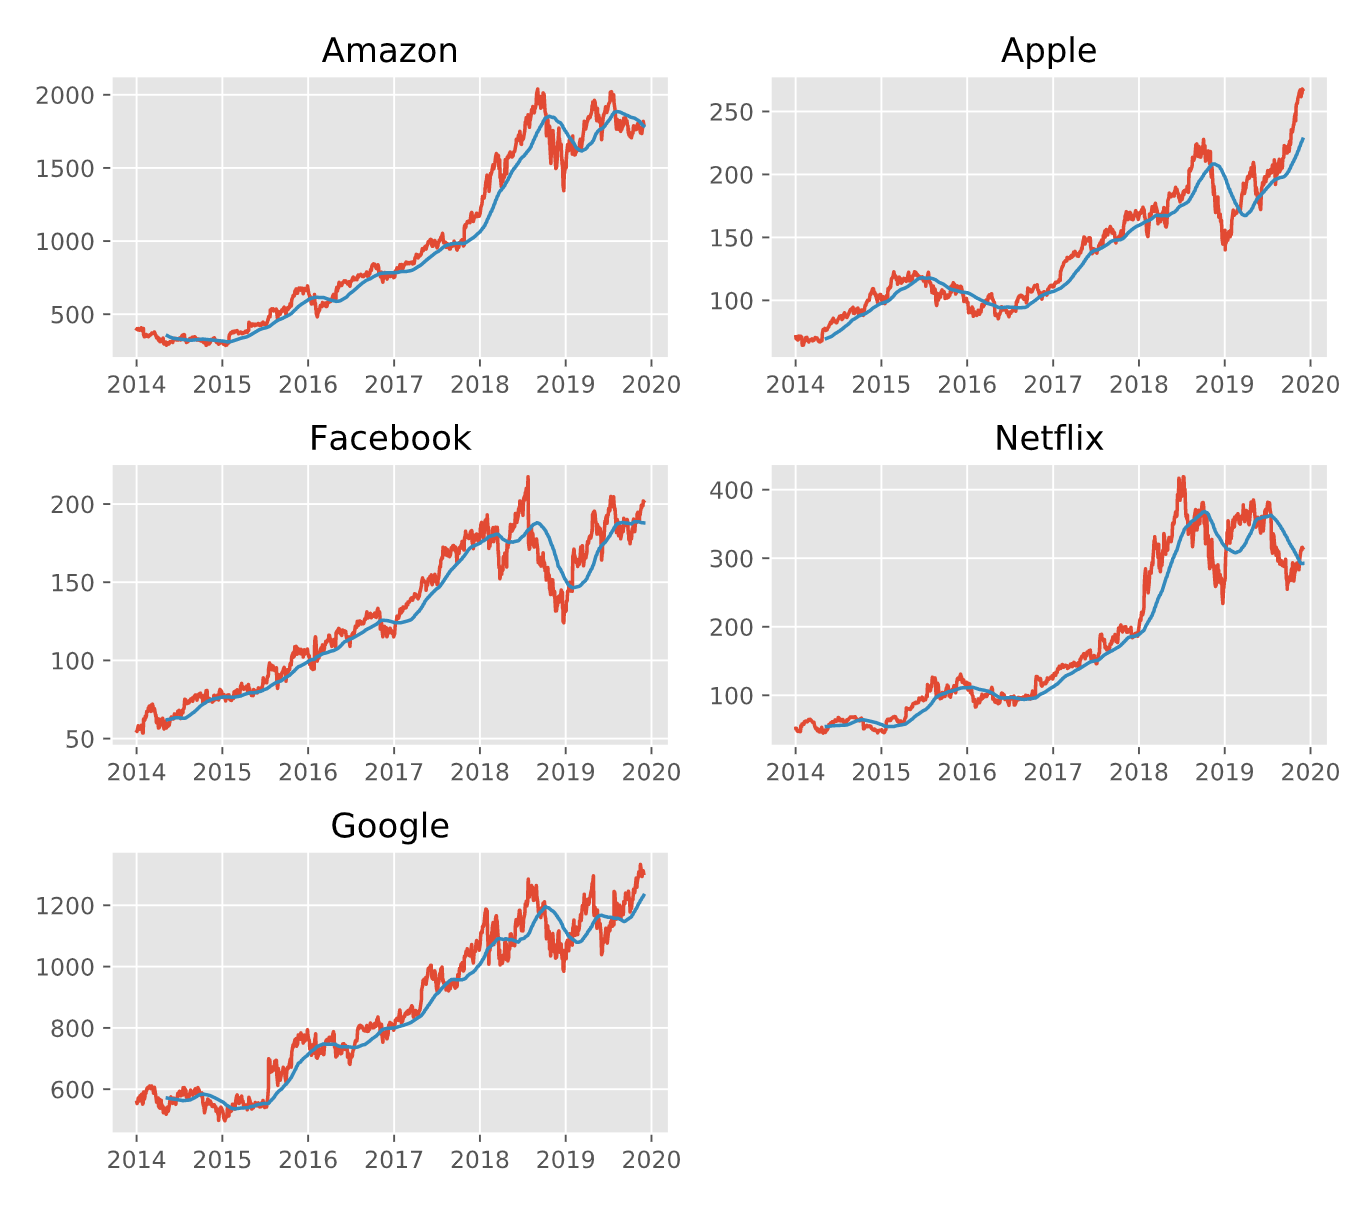
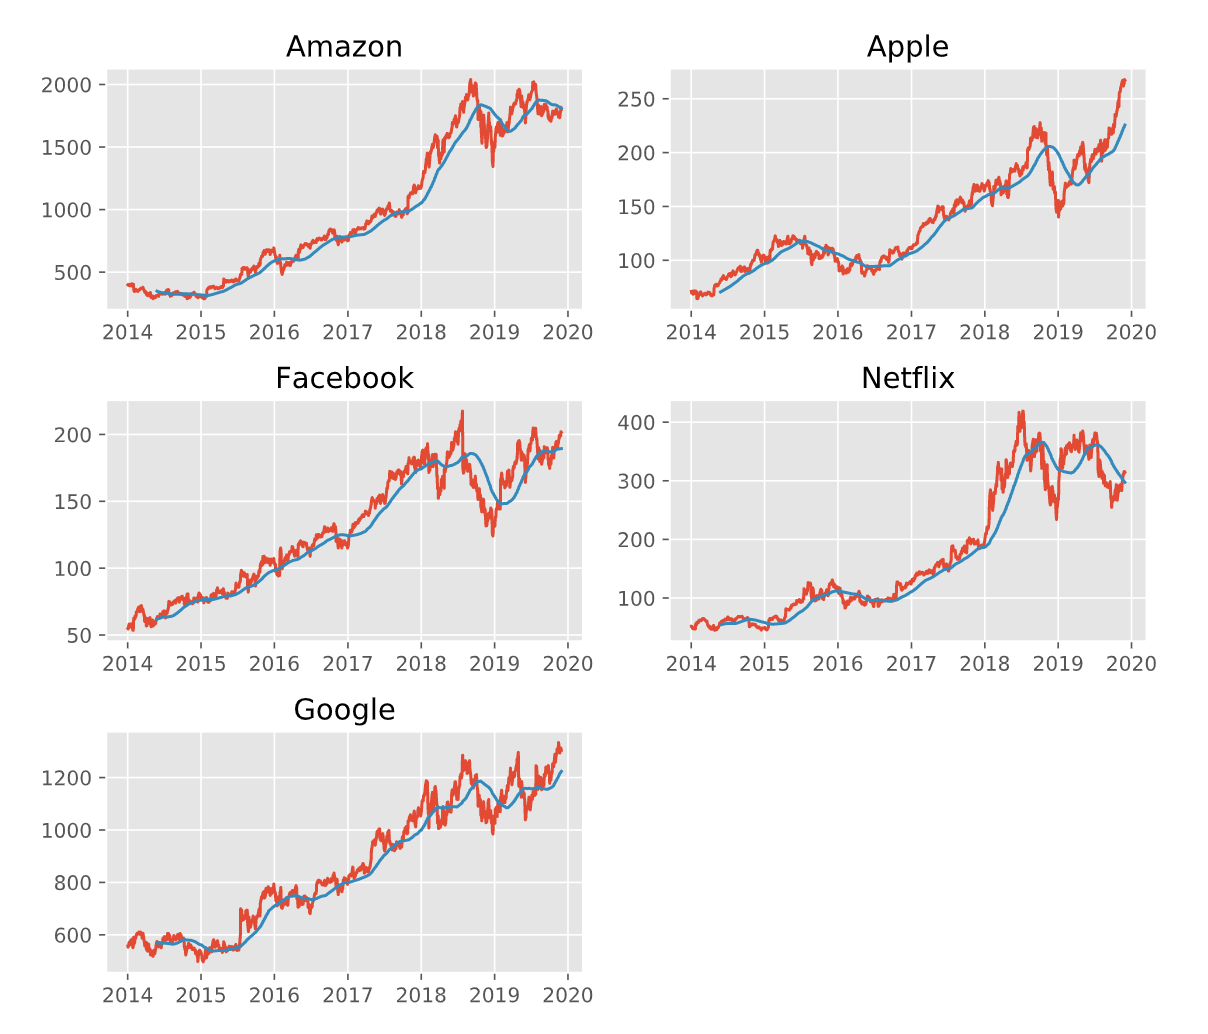
update readme

diff --git a/README.md b/README.md
@@ -1,27 +1,29 @@
-# FAANG - Stock Analysis
+# Simple Moving Averages - FAANG Stocks
 
-#### Load Data from Yahoo Finance
+<!Add Codacy Badge!>
 
-Pandas Web Reader is an extension of pandas library that imports data from several sources including Yahoo Finance, Quandl, Enigma, NASDAQ,etc.
+[![Codacy Badge](https://api.codacy.com/project/badge/Grade/a0d3d04c572542e484f8ee9ee99e0467)](https://www.codacy.com/manual/tmcbrigido/faang-stock?utm_source=github.com&amp;utm_medium=referral&amp;utm_content=tmcbrigido/faang-stock&amp;utm_campaign=Badge_Grade)
 
-We can import the stock prices using the following libraries:
+FAANG is an acronym for the 5 most popular and best-performing tech stocks - Facebook, Apple, Amazon, Netflix, and Alphabet (Google). Over the past few years, FAANG stocks have delivered outstanding results to their shareholders but they start to show signs of resistance which leaves us with an open question when planning our investment strategies for 2020: Can these stocks still outperform the market consistently or should investors find return anywhere else?  I will focus this analysis in the past performance of FAANG using Python, starting with historical performance, data visualization and close with a prediction analysis using Linear Analysis and K Nearest Neighbor (KNN).
+
+## Load Data from Yahoo Finance
+
+Pandas Web Reader is an up to date remote acess for pandas library that allows us to extract financial information from multiple sources including Yahoo Finance, Quandl, Enigma, World Bank, etc. In my analysis, I will use Yahoo Finance using the following code with prices over the past 5 years.
 
 ```import pandas as pd
 import datetime
 import pandas_datareader.data as web
 from pandas import Series, DataFrame
-```
-
-Define the start and end date and import the stocks for FAANG:
-
-```start = datetime.datetime(2014, 1, 1)
+start = datetime.datetime(2014, 1, 1)
 end = datetime.datetime(2019, 11, 30)
 df = web.DataReader(["AAPL","AMZN","FB","NFLX","GOOGL"], 'yahoo', start, end)
 ```
 
-![FAANG - Adjusted Prices](images/AdjClose.png)
+![FAANG - Adjusted Prices](/images/AdjClose.png)
 
-The code will pull the last 5 years of data from Jan, 2014 until Nov,2019. I decided to create a new table (AdjClose) where I stored the data for the adjusted prices for each individual stock. You can plot the stocks and their respective prices using the code:
+## Data Visualization
+
+Let's have a look at the code ad graph created using matplotlib:
 
 ``` %matplotlib inline
 import matplotlib.pyplot as plt
@@ -39,9 +41,9 @@ AdjClose.plot(label='FAANG')
 plt.legend()
 ```
 
-![FAANG - Adjusted Prices](/images/stock_plot.png)
+![FAANG Adjusted Prices](/images/stock_plot.png)
 
-If we look at the graph we can see that Amazon is the clear winner from the group, however it is difficult to compare companies based on stock prices. The next step is to calculate the monthly returns and plot them:
+If you look at the previous graph you can easily identify trends in the markets, corrections and compare performance. The next step is to compute the monthly returns and cumulative returns and plot those results:
 
 ```monthly_returns = AdjClose.resample('M').ffill().pct_change()
 fig = plt.figure()
@@ -66,12 +68,9 @@ plt.show()
 
 ![FAANG - Monthly Returns](/images/monthly_plot.png)
 
-
-Now that we have the monthly returns we can also figure out the total return for each stock and check the return of $1 after 5 years in each one of them:
+Based on the cumulative returns, we could plot it as following:
 
 ```cum_returns = (monthly_returns + 1).cumprod()
-
-
 fig = plt.figure()
 ax1 = fig.add_axes([0.1,0.1,0.8,0.8])
 cum_returns.plot()
@@ -83,7 +82,86 @@ plt.show()
 
 ![FAANG - Cumulative Returns](/images/cumulative_returns.png)
 
+For each one of the stocks:
 
-<!Add Codacy Badge!>
+```fig = plt.figure()
+ax1 = fig.add_subplot(321)
+ax2 = fig.add_subplot(322)
+ax3 = fig.add_subplot(323)
+ax4 = fig.add_subplot(324)
+ax5 = fig.add_subplot(325)
+ax1.plot(cum_returns['AMZN'])
+ax1.set_title("Amazon")
+ax2.plot(cum_returns['AAPL'])
+ax2.set_title("Apple")
+ax3.plot(cum_returns['FB'])
+ax3.set_title("Facebook")
+ax4.plot(cum_returns['NFLX'])
+ax4.set_title("Netflix")
+ax5.plot(cum_returns['GOOGL'])
+ax5.set_title("Google")
+plt.tight_layout()
+plt.show()
+```
 
-[![Codacy Badge](https://api.codacy.com/project/badge/Grade/a0d3d04c572542e484f8ee9ee99e0467)](https://www.codacy.com/manual/tmcbrigido/faang-stock?utm_source=github.com&amp;utm_medium=referral&amp;utm_content=tmcbrigido/faang-stock&amp;utm_campaign=Badge_Grade)
+![Individual Stocks - Cumulative Returns](/images/cumulative_individual.png)
+
+Historical performance is not a sign of future performance.
+
+## Moving Averages
+
+The Simple Moving Average (SMA) is a technique used by investors to make buy and sell decisions by identifying support and resistance prices where the stock or currency should be traded. The SMA takes the average price over a certain period. In this case, we will compute the SMA for 30, 60 and 90 days, which means that we will measure it based on the average for the past 30 days for example.  The length of the moving average will depend on the investment strategy that would be adopted, with shorter moving averages used for short term strategies and long term moving averages for long term investments.  A rising trend in the moving average is an indicator of an uptrend in the stock while a declining moving average is a sign of a downtrend.
+
+```mavg30 = AdjClose.rolling(window=30).mean()
+mavg50 = AdjClose.rolling(window=50).mean()
+mavg100 = AdjClose.rolling(window=100).mean()
+```
+
+```fig = plt.figure()
+ax1 = fig.add_subplot(321)
+ax2 = fig.add_subplot(322)
+ax3 = fig.add_subplot(323)
+ax4 = fig.add_subplot(324)
+ax5 = fig.add_subplot(325)
+ax1.plot(AdjClose['AMZN'], label='AMZN')
+ax1.plot(mavg90['AMZN'], label='mavg')
+ax1.set_title("Amazon")
+ax2.plot(AdjClose['AAPL'], label='AAPL')
+ax2.plot(mavg90['AAPL'], label='mavg')
+ax2.set_title("Apple")
+ax3.plot(AdjClose['FB'], label='FB')
+ax3.plot(mavg90['FB'], label='mavg')
+ax3.set_title("Facebook")
+ax4.plot(AdjClose['NFLX'], label='NFLX')
+ax4.plot(mavg90['NFLX'], label='mavg')
+ax4.set_title("Netflix")
+ax5.plot(AdjClose['GOOGL'], label='GOOGL')
+ax5.plot(mavg90['GOOGL'], label='mavg')
+ax5.set_title("Google")
+plt.tight_layout()
+plt.show()
+```
+
+![Simple Moving Averages](/images/moving.png)
+
+## Simple Moving Averages - Amazon
+
+```%matplotlib inline
+import matplotlib.pyplot as plt
+from matplotlib import style
+
+# Adjusting the size of matplotlib
+import matplotlib as mpl
+mpl.rc('figure', figsize=(8, 7))
+mpl.__version__
+
+# Adjusting the style of matplotlib
+style.use('ggplot')
+AdjCloseMa["AMZN"].plot(label='AMZN')
+mavgma30["AMZN"].plot(label='mavg30')
+mavgma50["AMZN"].plot(label='mavg50')
+mavgma100["AMZN"].plot(label='mavg100')
+plt.legend()
+```
+
+![SMA - Amazon](/images/sma_amazon.png)
